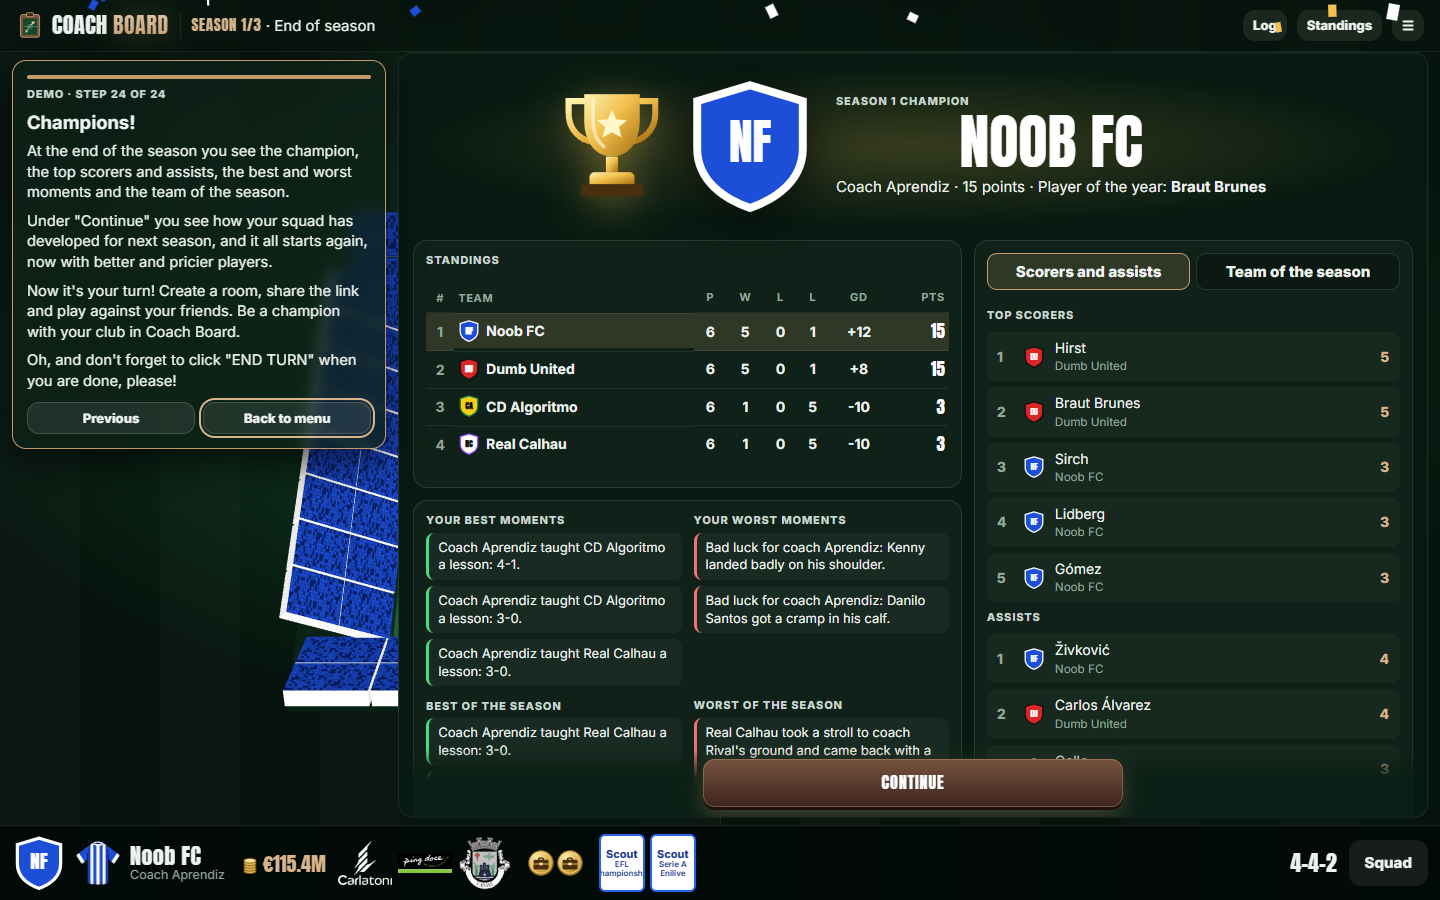
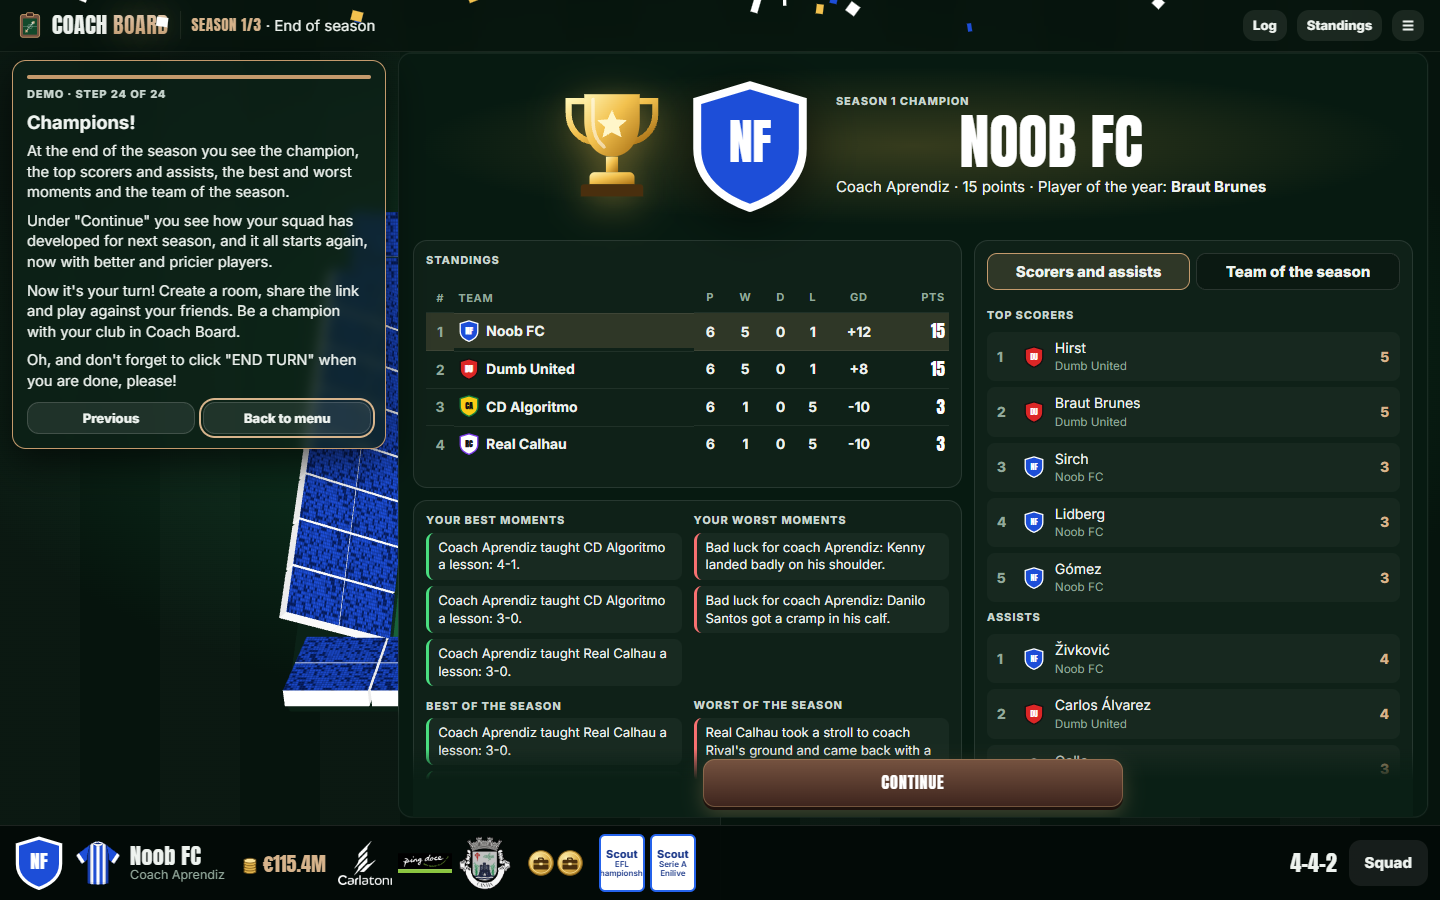
Imagem de capa no README e correção da tradução de colunas
- Capa em inglês e em português (scripts/capa.mjs), no lugar do logótipo, do título e da imagem antiga
- /demo?limpo=1 esconde o guia, para as imagens da capa
- Um texto já traduzido não volta a ser traduzido (as colunas J V E D davam P W L L)

diff --git a/jogo/scripts/capa.html b/jogo/scripts/capa.html
@@ -1,0 +1,120 @@
+<!doctype html>
+<!-- A imagem de capa do README (docs/capa.png e docs/capa-pt.png), no estilo da do nectr: o nome e a frase à
+     esquerda, o jogo à direita. Gera-se com node scripts/capa.mjs, que lhe passa ?lang=pt ou ?lang=en. -->
+<html lang="en">
+<head>
+<meta charset="utf-8">
+<style>
+  @font-face { font-family: Anton; src: url('/jogo/public/fontes/anton-latin.woff2') format('woff2'); }
+  @font-face { font-family: Anton; src: url('/jogo/public/fontes/anton-latin-ext.woff2') format('woff2'); unicode-range: U+0100-024F; }
+  @font-face { font-family: Inter; src: url('/jogo/public/fontes/inter-latin.woff2') format('woff2'); font-weight: 100 900; }
+  @font-face { font-family: Inter; src: url('/jogo/public/fontes/inter-latin-ext.woff2') format('woff2'); font-weight: 100 900; unicode-range: U+0100-024F; }
+  * { box-sizing: border-box; margin: 0; }
+  html, body { width: 1920px; height: 1080px; overflow: hidden; }
+  body {
+    position: relative;
+    font-family: Inter, sans-serif;
+    color: #f3ece4;
+    background:
+      radial-gradient(ellipse 60% 70% at 78% 30%, #c49a6c26, transparent 70%),
+      radial-gradient(ellipse 70% 80% at 20% 90%, #134a2c99, transparent 70%),
+      linear-gradient(160deg, #0b1a12 0%, #07110c 55%, #050b08 100%);
+  }
+  /* As riscas do relvado, muito ao de leve. */
+  body::before {
+    content: '';
+    position: absolute;
+    inset: 0;
+    background: repeating-linear-gradient(90deg, #ffffff05 0 120px, transparent 120px 240px);
+  }
+  .texto {
+    position: absolute;
+    left: 96px;
+    top: 150px;
+    width: 640px;
+  }
+  .marca {
+    display: flex;
+    align-items: center;
+    gap: 26px;
+  }
+  .logo {
+    width: 84px;
+    height: 84px;
+    padding: 6px;
+    border-radius: 22px;
+    background: #ffffff0d;
+  }
+  .nome {
+    font-family: Anton, Impact, sans-serif;
+    font-size: 76px;
+    letter-spacing: 0.5px;
+    line-height: 1;
+    text-transform: uppercase;
+  }
+  .nome span { color: #d9b48a; }
+  h1 {
+    margin-top: 64px;
+    font-size: 70px;
+    font-weight: 900;
+    line-height: 1.04;
+    letter-spacing: -2.2px;
+  }
+  h1 em {
+    font-style: normal;
+    color: #d9b48a;
+  }
+  .sub {
+    margin-top: 36px;
+    font-size: 29px;
+    line-height: 1.42;
+    color: #cfc4b8;
+  }
+  .sub + .sub { margin-top: 18px; }
+  .pastilha {
+    display: inline-block;
+    margin-top: 52px;
+    padding: 18px 30px;
+    border-radius: 999px;
+    background: linear-gradient(180deg, #e2c19b, #c49a6c);
+    color: #1f120d;
+    font-size: 25px;
+    font-weight: 800;
+    box-shadow: 0 10px 40px #c49a6c55;
+  }
+  /* O jogo: uma janela grande e outra mais pequena, por cima. */
+  .janela {
+    position: absolute;
+    overflow: hidden;
+    border-radius: 18px;
+    border: 1px solid #ffffff1f;
+    background: #0b1a12;
+    box-shadow: 0 40px 120px #000c, 0 0 0 1px #0007;
+  }
+  .janela img { display: block; width: 100%; }
+  .grande { left: 760px; top: 120px; width: 1120px; }
+  .pequena { left: 1250px; top: 660px; width: 620px; height: 160px; border-radius: 16px; border: 1px solid #c49a6c66; }
+  .pequena img { width: 1180px; max-width: none; margin: -40px 0 0 -440px; }
+</style>
+</head>
+<body>
+  <div class="texto">
+    <div class="marca">
+      <img class="logo" src="/jogo/public/favicon.svg" alt="">
+      <p class="nome">Coach <span>Board</span></p>
+    </div>
+    <h1 data-en="Build your club,<br>win the league,<br><em>beat your mates.</em>" data-pt="Cria o teu clube,<br>ganha a liga,<br><em>vence os amigos.</em>"></h1>
+    <p class="sub" data-en="A football board game: roll the dice on the transfer market, bid for real players and play the matches live." data-pt="Um jogo de tabuleiro de futebol: lança os dados no mercado, licita por jogadores reais e joga os jogos ao vivo."></p>
+    <p class="sub" data-en="Auctions, release clauses, injuries, the Cup." data-pt="Leilões, cláusulas, lesões, a Taça."></p>
+    <p class="pastilha" data-en="Free to play · self-host on Cloudflare" data-pt="Grátis · aloja-se na Cloudflare"></p>
+  </div>
+  <div class="janela grande"><img data-img="mercado" alt=""></div>
+  <div class="janela pequena"><img data-img="campeao" alt=""></div>
+  <script>
+    const lingua = new URLSearchParams(location.search).get('lang') === 'pt' ? 'pt' : 'en';
+    document.documentElement.lang = lingua;
+    for (const el of document.querySelectorAll('[data-en]')) el.innerHTML = el.dataset[lingua];
+    for (const el of document.querySelectorAll('[data-img]')) el.src = `/docs/screenshots/capa-${el.dataset.img}-${lingua}.png`;
+  </script>
+</body>
+</html>

diff --git a/jogo/public/js/idioma.js b/jogo/public/js/idioma.js
@@ -128,12 +128,19 @@ function traduzirAtributo(el, nome) {
   if (t !== v) el.setAttribute(nome, t);
 }
 
+// O texto que já pusemos em inglês: não se traduz outra vez ("E" passa a "D", e "D" não pode passar a "L").
+const jaTraduzido = new WeakMap();
+
 function traduzirNo(no) {
   if (no.nodeType === 3) {
     if (no.parentNode?.namespaceURI === SVG) return;
     const v = no.nodeValue;
+    if (jaTraduzido.get(no) === v) return;
     const t = traduzir(v);
-    if (t !== v) no.nodeValue = t;
+    if (t !== v) {
+      jaTraduzido.set(no, t);
+      no.nodeValue = t;
+    }
     return;
   }
   if (no.nodeType !== 1 || no.tagName === 'SCRIPT' || no.tagName === 'STYLE') return;

diff --git a/jogo/public/js/demo.js b/jogo/public/js/demo.js
@@ -27,6 +27,8 @@ export async function iniciarDemo({ mostrarEstado, abrir }) {
   // Um diálogo modal bloquearia o guia, por isso as cartas abrem-se como os outros.
   HTMLDialogElement.prototype.showModal = HTMLDialogElement.prototype.show;
   document.body.classList.add('modo-demo');
+  // /demo?limpo=1 esconde o guia: serve para a imagem de capa do README.
+  if (new URLSearchParams(location.search).has('limpo')) document.body.classList.add('demo-limpa');
   const guia = document.createElement('aside');
   guia.className = 'demo-guia painel';
   guia.setAttribute('aria-live', 'polite');

diff --git a/jogo/public/css/jogo.css b/jogo/public/css/jogo.css
@@ -3149,3 +3149,15 @@ button.barra-contrato.ampliado {
     padding-bottom: 44dvh;
   }
 }
+
+.demo-limpa .demo-guia {
+  display: none;
+}
+.modo-demo.demo-limpa #legenda-vez {
+  top: 4px !important;
+}
+.modo-demo.demo-limpa #palco #equipas-esq {
+  position: revert;
+  top: auto;
+  left: auto;
+}

diff --git a/README.md b/README.md
@@ -1,17 +1,11 @@
 <div align="center">
 
-<img src="jogo/public/favicon.svg" alt="Coach Board logo" width="96" height="96">
-
-# Coach Board
-
-**A multiplayer football board game: build your club, play the transfer market and win the league against your friends.**<br>
-Real players, a Monopoly-style transfer board and dice-driven matches, season after season. Free to host on Cloudflare.
+<img src="docs/capa.png" alt="Coach Board: build your club, win the league, beat your mates" width="100%">
 
 <a href="https://coach-board.bacoinz.workers.dev"><img src="https://img.shields.io/badge/play-coach--board.bacoinz.workers.dev-c49a6c?style=flat-square&labelColor=0b1a12" alt="Play online"></a> <img src="https://img.shields.io/badge/version-1.0-c49a6c?style=flat-square&labelColor=0b1a12" alt="Version 1.0"> <a href="LICENSE.md"><img src="https://img.shields.io/badge/license-PolyForm%20Noncommercial-c49a6c?style=flat-square&labelColor=0b1a12" alt="License: PolyForm Noncommercial"></a> <img src="https://img.shields.io/badge/cost-0%20%E2%82%AC%2Fmonth-c49a6c?style=flat-square&labelColor=0b1a12" alt="Cost: 0 €/month"> <img src="https://img.shields.io/badge/Cloudflare-Workers%20%C2%B7%20Durable%20Objects-c49a6c?style=flat-square&logo=cloudflare&logoColor=white&labelColor=0b1a12" alt="Cloudflare Workers and Durable Objects"> <img src="https://img.shields.io/badge/interface-English%20%C2%B7%20Portugu%C3%AAs-c49a6c?style=flat-square&labelColor=0b1a12" alt="Interface: English and Portuguese">
 
 [**▶ Play now**](https://coach-board.bacoinz.workers.dev) · [Watch the demo](https://coach-board.bacoinz.workers.dev/demo?lang=en) · [How to play](#how-to-play) · [Run your own](#run-your-own) · [Report a bug](https://github.com/bacoinz/coach-board/issues/new/choose) · [🇵🇹 Português](README.pt-PT.md)
 
-<img src="docs/screenshots/market.png" alt="The transfer board, with a player card from the Market" width="100%">
 
 </div>
 

diff --git a/README.pt-PT.md b/README.pt-PT.md
@@ -1,17 +1,11 @@
 <div align="center">
 
-<img src="jogo/public/favicon.svg" alt="Logótipo do Coach Board" width="96" height="96">
-
-# Coach Board
-
-**Um jogo de tabuleiro de futebol multijogador: cria o teu clube, joga o mercado de transferências e ganha a liga aos teus amigos.**<br>
-Jogadores reais, um tabuleiro de mercado ao estilo Monopólio e jogos decididos aos dados, época após época. Aloja-se de graça na Cloudflare.
+<img src="docs/capa-pt.png" alt="Coach Board: cria o teu clube, ganha a liga, vence os amigos" width="100%">
 
 <a href="https://coach-board.bacoinz.workers.dev"><img src="https://img.shields.io/badge/jogar-coach--board.bacoinz.workers.dev-c49a6c?style=flat-square&labelColor=0b1a12" alt="Jogar online"></a> <img src="https://img.shields.io/badge/vers%C3%A3o-1.0-c49a6c?style=flat-square&labelColor=0b1a12" alt="Versão 1.0"> <a href="LICENSE.md"><img src="https://img.shields.io/badge/licen%C3%A7a-PolyForm%20Noncommercial-c49a6c?style=flat-square&labelColor=0b1a12" alt="Licença: PolyForm Noncommercial"></a> <img src="https://img.shields.io/badge/custo-0%20%E2%82%AC%2Fm%C3%AAs-c49a6c?style=flat-square&labelColor=0b1a12" alt="Custo: 0 €/mês"> <img src="https://img.shields.io/badge/Cloudflare-Workers%20%C2%B7%20Durable%20Objects-c49a6c?style=flat-square&logo=cloudflare&logoColor=white&labelColor=0b1a12" alt="Cloudflare Workers e Durable Objects">
 
 [**▶ Jogar agora**](https://coach-board.bacoinz.workers.dev) · [Ver a demo](https://coach-board.bacoinz.workers.dev/demo?lang=pt) · [Como jogar](#como-jogar) · [Alojar o teu](#alojar-o-teu) · [Reportar um bug](https://github.com/bacoinz/coach-board/issues/new/choose) · [🇬🇧 English](README.md)
 
-<img src="docs/screenshots/market.png" alt="O tabuleiro de transferências, com uma carta do Mercado" width="100%">
 
 </div>
 
